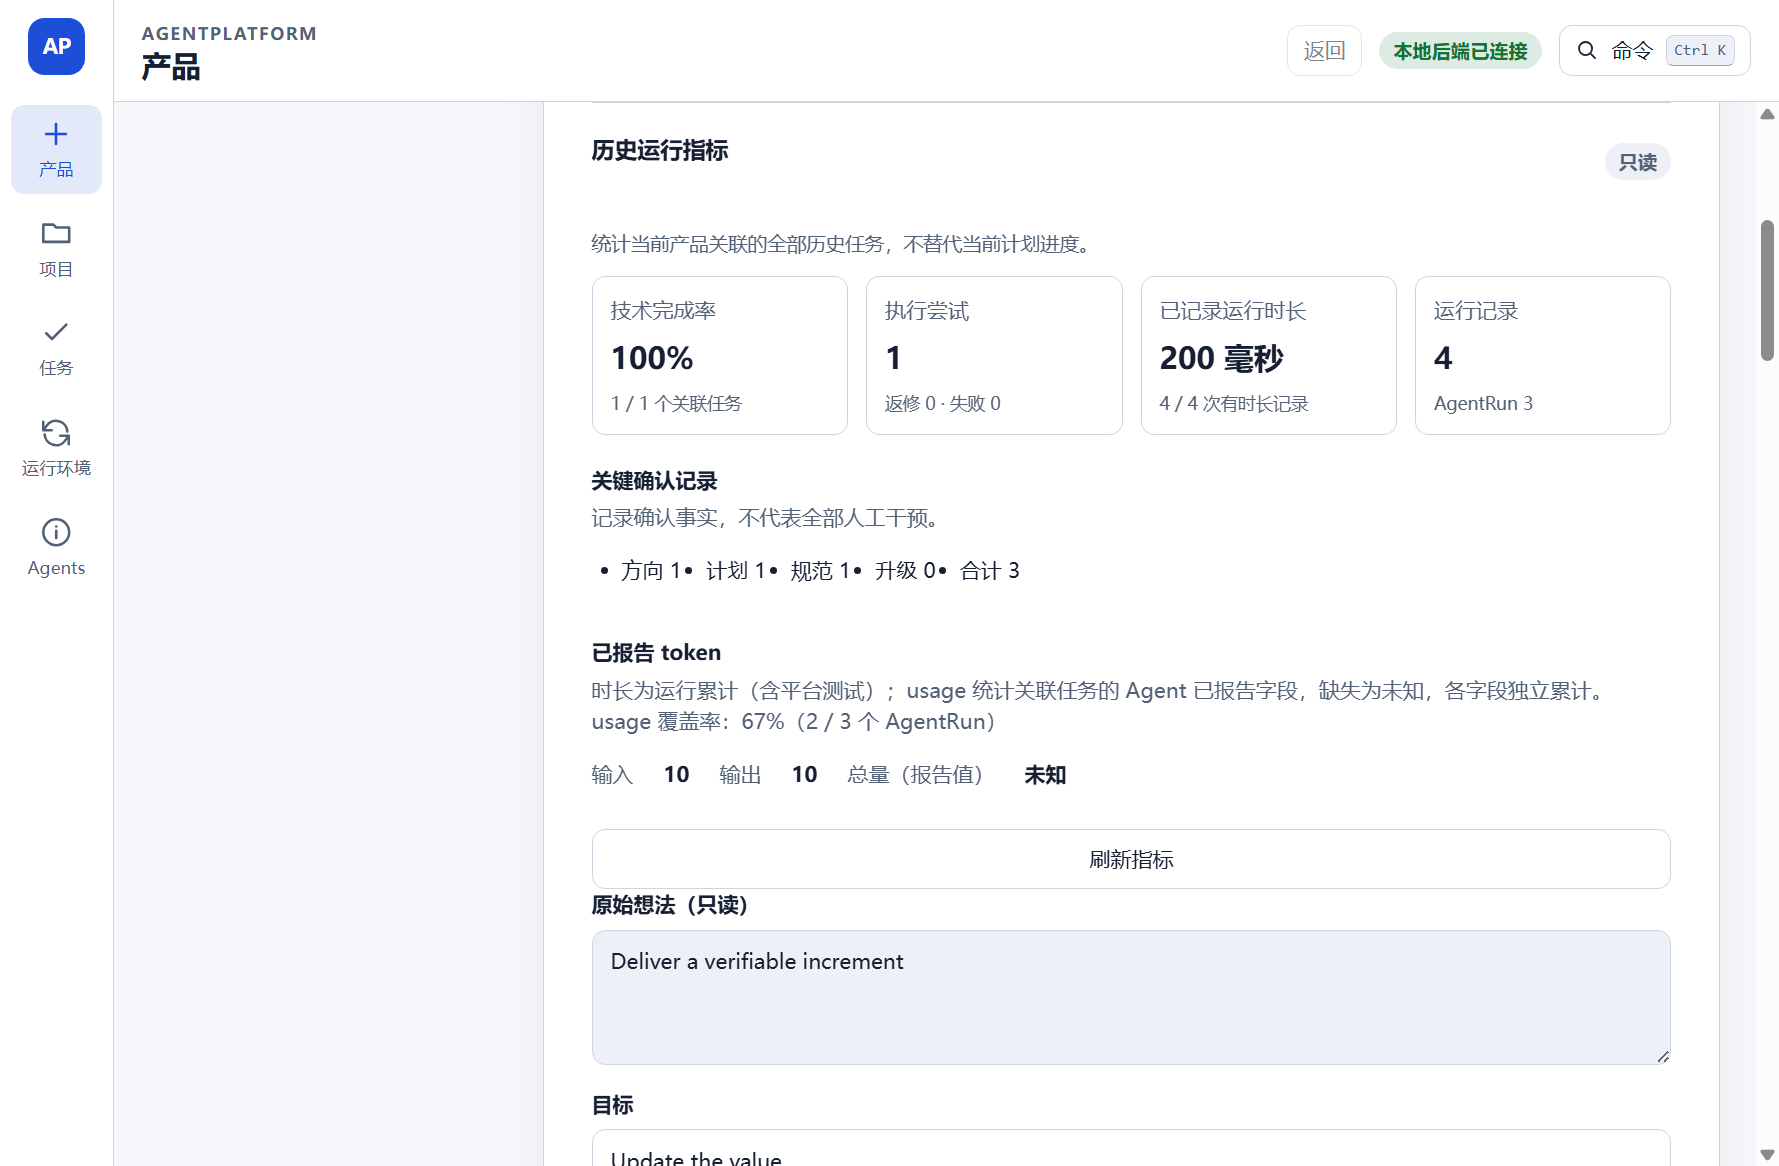
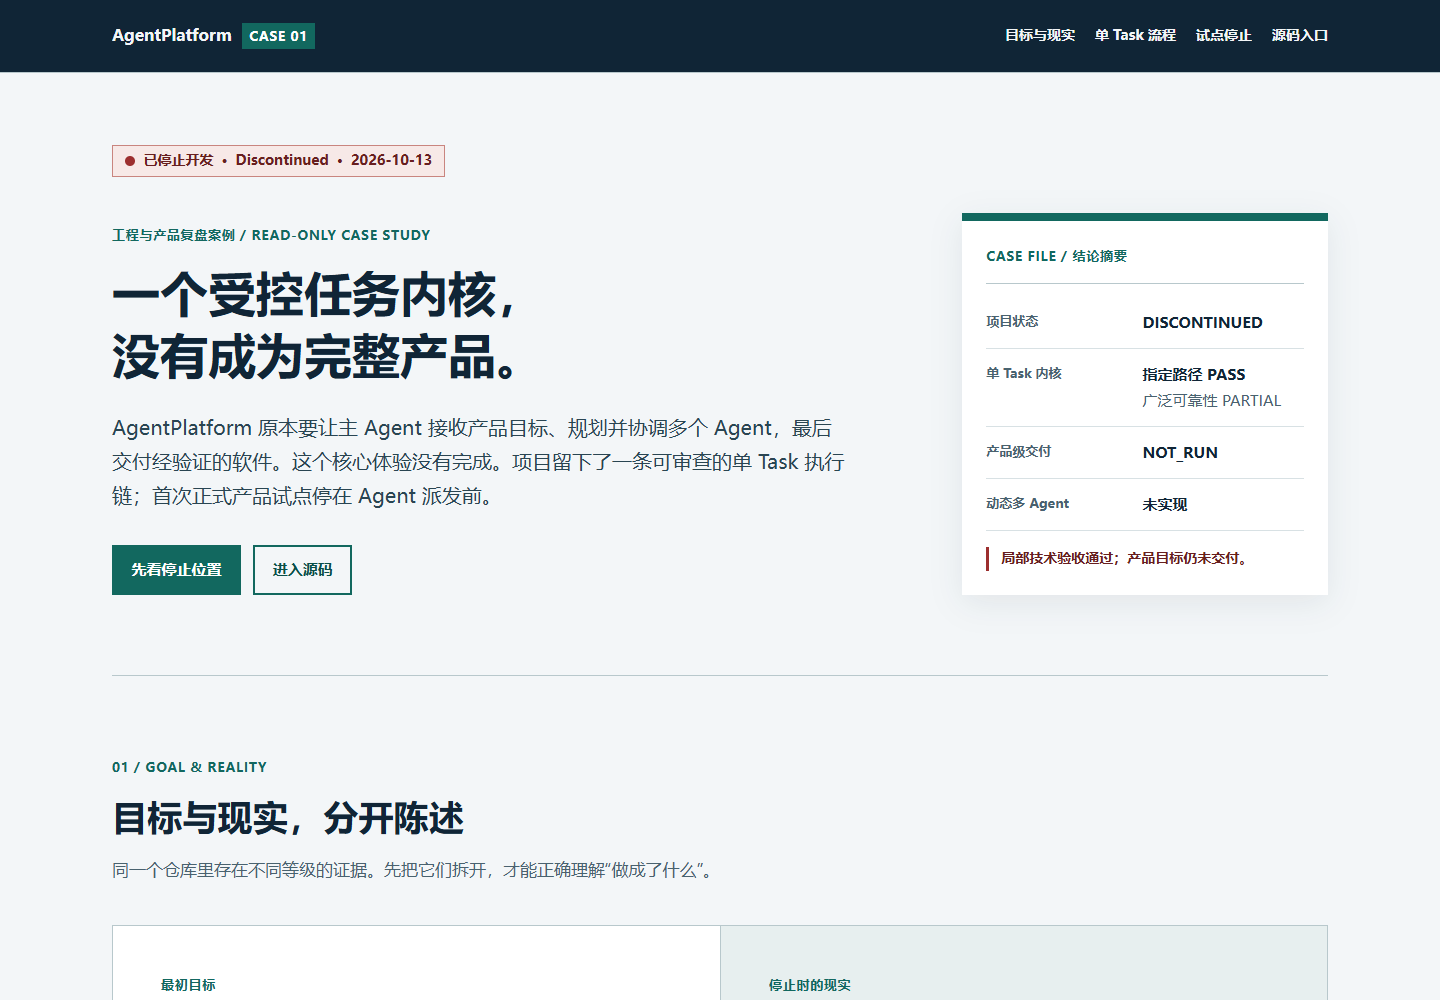
Release v3.1 interface previews and local QA record

diff --git a/scripts/verify_public_packages.py b/scripts/verify_public_packages.py
@@ -9,7 +9,7 @@ from urllib.parse import unquote
 
 
 ROOT = Path(__file__).resolve().parents[1]
-CURRENT_RELEASE = "v3.0"
+CURRENT_RELEASE = "v3.1"
 PACKAGES = (
     (
         "portfolio-contracts",

diff --git a/docs/UI_RELEASE_V31.md b/docs/UI_RELEASE_V31.md
@@ -1,0 +1,25 @@
+# 四项界面更新 · v3.1
+
+2026-10-15。面向招聘者和技术合作者，保留“体验 → 架构 → 源码 → 验证”的阅读路径。本轮不新增在线托管；所有界面按对应仓库 README 在本地运行。
+
+| 项目 | 本轮变化 | 验证入口 |
+| --- | --- | --- |
+| [航序](https://github.com/Daniel-24-life/logistics-workbench) | 异常队列优先；事实、缺口、建议与审核；键盘焦点管理 | [UI QA](https://github.com/Daniel-24-life/logistics-workbench/blob/main/docs/UI_QA.md) |
+| [买家研究](https://github.com/Daniel-24-life/buyer-research-agent) | 分类与选中证据优先；连接失败、旧状态及重试 | [UI QA](https://github.com/Daniel-24-life/buyer-research-agent/blob/main/docs/UI_QA.md) |
+| [BTC 治理](https://github.com/Daniel-24-life/btc-agent-governance) | 四场景历史合成记录查看器；未运行与阻断分别呈现 | [UI QA](https://github.com/Daniel-24-life/btc-agent-governance/blob/main/docs/UI_QA.md) |
+| [AgentPlatform](https://github.com/Daniel-24-life/agentplatform-case-study) | 只读案例页；停止结论、试点位置、工程取舍与源码导航 | [UI QA](https://github.com/Daniel-24-life/agentplatform-case-study/blob/main/docs/UI_QA.md) |
+
+## 验证记录
+
+- pass：四项页面在 320、375、768、1440 CSS px 下无页面横向溢出；200% 全元素文字放大与文字间距覆盖。
+- pass：实际浏览器中检查代表性文字的计算前景/背景色；不等同于全页面无障碍审计。
+- pass：航序审核、重复阻断、角色边界、过期证据和任务关闭；买家筛选、证据、队列、取消导出及失败恢复；BTC 四场景原始 JSON；AgentPlatform 导航与源码链接。
+- pass：三个演示仓库分别从干净本地克隆启动；航序 5 项、买家 19 项、BTC 28 项测试通过。
+- pass：AgentPlatform 新增案例页的 4 项定向测试；执行内核未修改，不改变历史验收结果。
+- not tested：Safari、屏幕阅读器、真实业务接入、真实模型或交易执行。只检查现有支持的界面主题，不宣称完整 WCAG 合规。
+
+本地浏览器复核脚本为 [browser-qa-v31.cjs](../scripts/browser-qa-v31.cjs)。复用现有 Playwright 环境，分别启动四个 README 所述服务后运行；脚本输出在忽略的 `tmp/ui-v31/`。代码不携带个人浏览器资料。
+
+## 公开边界
+
+截图仅显示公开合成数据或已公开的合成夹具。买家输入只在本地浏览器会话中保留；没有真实外联或订单。BTC 仅查看记录，所有场景执行权限为 false。AgentPlatform 仍已停止，不恢复产品开发。本轮不新增或替换许可证。

diff --git a/README.md b/README.md
@@ -8,7 +8,7 @@
 [English](README.en.md) · [个人主页](https://github.com/Daniel-24-life) · [新增项目](docs/ADD_PROJECT.md)
 
 这里整理我能公开的 AI 产品、Agent 工程、研究流程和方法。每项作品说明解决的
-问题、当前实现与验证边界，并提供深入阅读入口。当前目录版本为 [v3.0](CHANGELOG.md)。
+问题、当前实现与验证边界，并提供深入阅读入口。当前目录版本为 [v3.1](CHANGELOG.md)。
 
 航序、买家研究与 BTC 治理已独立维护。其余代码参考保留在本仓库；所有项目都明确
 区分合成演示、研究产物与实际运行证据。
@@ -38,7 +38,7 @@
 <tr>
 <td width="50%" valign="top">
 <h3><a href="https://github.com/Daniel-24-life/btc-agent-governance">BTC Agent 治理</a></h3>
-<a href="https://github.com/Daniel-24-life/btc-agent-governance"><img src="assets/previews/btc.svg" width="420" alt="BTC Agent 治理" /></a>
+<a href="https://github.com/Daniel-24-life/btc-agent-governance"><img src="assets/previews/btc.png" width="420" alt="BTC Agent 治理" /></a>
 <p>分开判断任务路由、证据声明与状态晋级，四种合成场景始终没有执行权限。</p>
 <p><strong>研究治理骨架</strong></p>
 <p><a href="https://github.com/Daniel-24-life/btc-agent-governance">体验与运行</a> · <a href="https://github.com/Daniel-24-life/btc-agent-governance/blob/main/docs/architecture.md">架构</a> · <a href="https://github.com/Daniel-24-life/btc-agent-governance/blob/main/public_demo.py">源码</a> · <a href="https://github.com/Daniel-24-life/btc-agent-governance/blob/main/docs/VERIFICATION.md">验证</a></p>
@@ -94,9 +94,9 @@
 
 ## 近期更新
 
-- 2026-10-14 · [航序 · 物流协同工作台](https://github.com/Daniel-24-life/logistics-workbench) · v1.0 — 公开离线产品演示独立发布。
-- 2026-10-14 · [外贸买家研究 Agent](https://github.com/Daniel-24-life/buyer-research-agent) · v1.0 — 证据分类与队列代码独立发布。
-- 2026-10-14 · [BTC Agent 治理](https://github.com/Daniel-24-life/btc-agent-governance) · v1.0 — 四场景治理运行器独立发布。
+- 2026-10-15 · [航序 · 物流协同工作台](https://github.com/Daniel-24-life/logistics-workbench) · v1.1 — 异常队列与审核工作台重设计。
+- 2026-10-15 · [外贸买家研究 Agent](https://github.com/Daniel-24-life/buyer-research-agent) · v1.1 — 证据优先工作台与连接状态改进。
+- 2026-10-15 · [BTC Agent 治理](https://github.com/Daniel-24-life/btc-agent-governance) · v1.1 — 新增四场景本地记录查看器。
 
 ## 添加下一项作品
 

diff --git a/README.en.md b/README.en.md
@@ -9,7 +9,7 @@
 
 Public product reconstructions, bounded agents, research workflows and reusable
 methods. Each entry separates implemented behavior, synthetic examples and
-verification limits. Directory release: [v3.0](CHANGELOG.md).
+verification limits. Directory release: [v3.1](CHANGELOG.md).
 
 The logistics, buyer research and BTC governance projects maintain their code in
 independent repositories. Four other code references remain here.
@@ -39,7 +39,7 @@ independent repositories. Four other code references remain here.
 <tr>
 <td width="50%" valign="top">
 <h3><a href="https://github.com/Daniel-24-life/btc-agent-governance">BTC Agent Governance</a></h3>
-<a href="https://github.com/Daniel-24-life/btc-agent-governance"><img src="assets/previews/btc.svg" width="420" alt="BTC Agent Governance" /></a>
+<a href="https://github.com/Daniel-24-life/btc-agent-governance"><img src="assets/previews/btc.png" width="420" alt="BTC Agent Governance" /></a>
 <p>Four synthetic scenarios with bounded evidence and no trading authority.</p>
 <p><strong>Research governance skeleton</strong></p>
 <p><a href="https://github.com/Daniel-24-life/btc-agent-governance">Run / overview</a> · <a href="https://github.com/Daniel-24-life/btc-agent-governance/blob/main/docs/architecture.md">Architecture</a> · <a href="https://github.com/Daniel-24-life/btc-agent-governance/blob/main/public_demo.py">Source</a> · <a href="https://github.com/Daniel-24-life/btc-agent-governance/blob/main/docs/VERIFICATION.md">Verification</a></p>
@@ -95,9 +95,9 @@ independent repositories. Four other code references remain here.
 
 ## Recent releases
 
-- 2026-10-14 · [Hangxu Logistics Workbench](https://github.com/Daniel-24-life/logistics-workbench) · v1.0 — Standalone public product demo.
-- 2026-10-14 · [Buyer Research Agent](https://github.com/Daniel-24-life/buyer-research-agent) · v1.0 — Standalone evidence and queue reference.
-- 2026-10-14 · [BTC Agent Governance](https://github.com/Daniel-24-life/btc-agent-governance) · v1.0 — Standalone four-scenario governance demo.
+- 2026-10-15 · [Hangxu Logistics Workbench](https://github.com/Daniel-24-life/logistics-workbench) · v1.1 — Queue-first review workbench redesign.
+- 2026-10-15 · [Buyer Research Agent](https://github.com/Daniel-24-life/buyer-research-agent) · v1.1 — Evidence-first workspace and explicit connection states.
+- 2026-10-15 · [BTC Agent Governance](https://github.com/Daniel-24-life/btc-agent-governance) · v1.1 — Local viewer for four recorded governance scenarios.
 
 ## Add the next project
 

diff --git a/CHANGELOG.md b/CHANGELOG.md
@@ -1,5 +1,14 @@
 # Release history
 
+## v3.1 - 2026-10-15
+
+- Updated four project previews from locally runnable public-fixture interfaces.
+- Linked logistics and buyer workbench redesigns, the BTC record viewer, and the
+  read-only AgentPlatform case page. No online hosting or real integrations added.
+- Preserved the profile's mobile reading path and manual introduction; continued
+  pinning generated project sections to the reviewed catalog source commit.
+- Added a reusable local browser QA script for viewport and readability checks.
+
 ## v3.0 - 2026-10-14
 
 - Reorganized the portfolio into five categories with Chinese-first entry pages

diff --git a/catalog/inventory.md b/catalog/inventory.md
@@ -1,6 +1,6 @@
 # 项目目录
 
-此表由 projects.json 生成。项目实现状态与仓库目录版本 v3.0 分开记录。
+此表由 projects.json 生成。项目实现状态与仓库目录版本 v3.1 分开记录。
 
 <!-- portfolio:start -->
 
